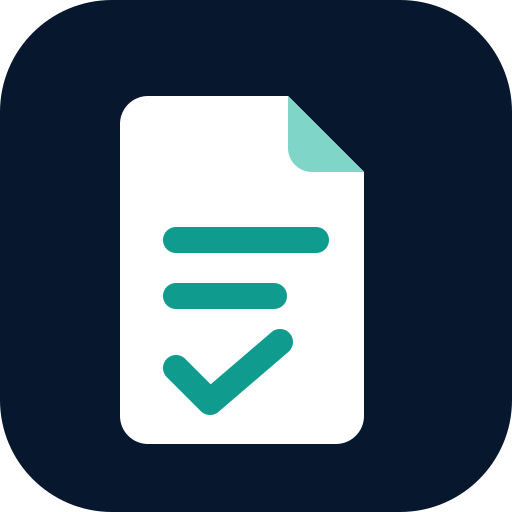
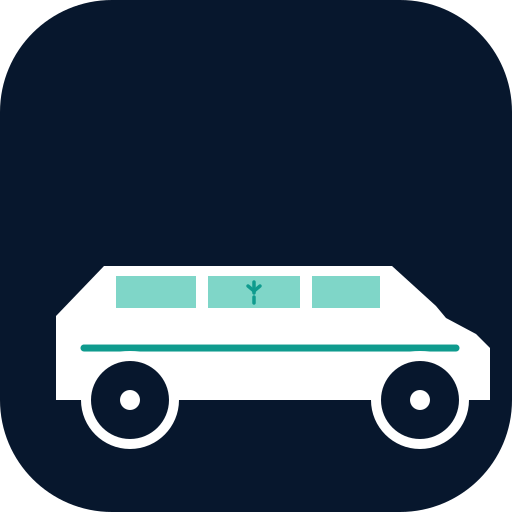
Ny limousin+glas-logotyp och branschanpassade flik-ikoner (stenskott, glasdokument, verktyg)

diff --git a/tools/build-logo.js b/tools/build-logo.js
@@ -51,13 +51,21 @@ const svg = `<svg xmlns="http://www.w3.org/2000/svg" viewBox="0 0 1000 240" role
   <!-- Flat fills only: portal_sanitize_svg strips defs/gradients on view. -->
   <g transform="translate(0 0) scale(0.46875)">
     <rect width="512" height="512" rx="112" fill="#07172d"/>
-    <path d="M148 96h140l76 76v244a28 28 0 0 1-28 28H148a28 28 0 0 1-28-28V124a28 28 0 0 1 28-28z" fill="#ffffff"/>
-    <path d="M288 96l76 76h-52a24 24 0 0 1-24-24z" fill="#7fd6c8"/>
-    <g stroke="#0f9b8e" stroke-width="26" stroke-linecap="round" stroke-linejoin="round" fill="none">
-      <path d="M176 240h140"/>
-      <path d="M176 296h98"/>
-      <path d="M176 368l34 34 70-60"/>
+    <path d="M56 400V316l48-50h288l44 40 10 12 30 16 14 14v52z" fill="#ffffff"/>
+    <rect x="116" y="276" width="80" height="32" fill="#7fd6c8"/>
+    <rect x="208" y="276" width="92" height="32" fill="#7fd6c8"/>
+    <rect x="312" y="276" width="68" height="32" fill="#7fd6c8"/>
+    <g stroke="#0f9b8e" stroke-width="3.5" stroke-linecap="round">
+      <path d="M254 282v11"/>
+      <path d="M248 286l6 5"/>
+      <path d="M260 286l-6 5"/>
+      <path d="M254 297v6"/>
     </g>
+    <path d="M84 348h372" stroke="#0f9b8e" stroke-width="7" stroke-linecap="round"/>
+    <circle cx="130" cy="400" r="44" fill="#07172d" stroke="#ffffff" stroke-width="10"/>
+    <circle cx="420" cy="400" r="44" fill="#07172d" stroke="#ffffff" stroke-width="10"/>
+    <circle cx="130" cy="400" r="10" fill="#ffffff"/>
+    <circle cx="420" cy="400" r="10" fill="#ffffff"/>
   </g>
   <path d="${pathData}" fill="#0b2239"/>
   <rect x="${x}" y="176" width="${advance}" height="8" rx="4" fill="#0f9b8e"/>

diff --git a/index.php b/index.php
@@ -3850,11 +3850,11 @@ $languageLink = static function (string $language): string {
 ?>
 <?php
         $tabIcons = [
-            'protocol' => '<svg class="tab-icon" viewBox="0 0 24 24" aria-hidden="true" focusable="false"><path d="M7 3.5h7l4 4v13H7z"/><path d="M14 3.5v4h4M10 12h5M10 16h5"/></svg>',
+            'protocol' => '<svg class="tab-icon" viewBox="0 0 24 24" aria-hidden="true" focusable="false"><path d="M14.7 6.3a1 1 0 0 0 0 1.4l1.6 1.6a1 1 0 0 0 1.4 0l3.77-3.77a6 6 0 0 1-7.94 7.94l-6.91 6.91a2.12 2.12 0 0 1-3-3l6.91-6.91a6 6 0 0 1 7.94-7.94l-3.76 3.76z"/></svg>',
             'search' => '<svg class="tab-icon" viewBox="0 0 24 24" aria-hidden="true" focusable="false"><circle cx="10.8" cy="10.8" r="6.8"/><path d="m16 16 4.2 4.2"/></svg>',
             'invoice' => '<svg class="tab-icon" viewBox="0 0 24 24" aria-hidden="true" focusable="false"><path d="M6 3.5h12v17l-3-2-3 2-3-2-3 2z"/><path d="M9 8h6M9 12h6M9 16h3"/></svg>',
-            'skadeblankett' => '<svg class="tab-icon" viewBox="0 0 24 24" aria-hidden="true" focusable="false"><path d="M12 3 5 6v5c0 4.6 2.8 7.7 7 10 4.2-2.3 7-5.4 7-10V6z"/><path d="M12 8v4M12 15h.01"/></svg>',
-            'files' => '<svg class="tab-icon" viewBox="0 0 24 24" aria-hidden="true" focusable="false"><path d="M3.5 7.5h6l2 2h9v9h-17z"/><path d="M3.5 7.5v-2h6l2 2"/></svg>',
+            'skadeblankett' => '<svg class="tab-icon" viewBox="0 0 24 24" aria-hidden="true" focusable="false"><rect x="4.5" y="4" width="15" height="16" rx="2.5"/><path d="M12 8.5v4.5M9.8 10.3l2.6 2.2M14.2 10.3l-2.6 2.2M12 14.5v1.5"/></svg>',
+            'files' => '<svg class="tab-icon" viewBox="0 0 24 24" aria-hidden="true" focusable="false"><path d="M5.5 4.5A1.5 1.5 0 0 1 7 3h6.5L18.5 8v11.5A1.5 1.5 0 0 1 17 21H7a1.5 1.5 0 0 1-1.5-1.5z"/><path d="M13.5 3v5h5"/><path d="M8.5 15.5l6-6M12 17.5l4.5-4.5"/></svg>',
             'archive' => '<svg class="tab-icon" viewBox="0 0 24 24" aria-hidden="true" focusable="false"><circle cx="12" cy="12" r="8.5"/><path d="M12 7v5l3 2"/></svg>',
             'customers' => '<svg class="tab-icon" viewBox="0 0 24 24" aria-hidden="true" focusable="false"><circle cx="9" cy="8" r="3"/><path d="M3.5 20v-1.5a5.5 5.5 0 0 1 11 0V20M16 5.5a3 3 0 0 1 0 5.8M17 15.5a5 5 0 0 1 3.5 4.5"/></svg>',
             'calendar' => '<svg class="tab-icon" viewBox="0 0 24 24" aria-hidden="true" focusable="false"><rect x="3.5" y="5" width="17" height="15.5" rx="2"/><path d="M7.5 3v4M16.5 3v4M3.5 9h17M8 13h2M14 13h2M8 17h2"/></svg>',

diff --git a/tests/php/svg_logo_sanitizer_regression.php b/tests/php/svg_logo_sanitizer_regression.php
@@ -22,7 +22,8 @@ $icon = (string) file_get_contents(__DIR__ . '/../../assets/tadega-icon.svg');
 $safeIcon = portal_sanitize_svg($icon);
 $assert(is_string($safeIcon), 'App icon passes the sanitizer');
 $assert(str_contains($safeIcon, 'rx="112"'), 'Badge corner radius survives sanitizing');
-$assert(str_contains($safeIcon, 'M176 368'), 'Check-mark stroke survives sanitizing');
+$assert(str_contains($safeIcon, 'M56 400'), 'Limousine body path survives sanitizing');
+$assert(str_contains($safeIcon, 'cx="420"'), 'Wheel circle survives sanitizing');
 $assert(str_contains($safeIcon, 'stroke="#0f9b8e"'), 'Teal stroke colour survives sanitizing');
 
 $logo = (string) file_get_contents(__DIR__ . '/../../assets/tadega-logo.svg');

diff --git a/README-DEPLOY.md b/README-DEPLOY.md
@@ -25,6 +25,7 @@ Det här är en uppdaterad **arbetskopia** av portalen. Den har inte publicerats
 - SVG-logotypkontroll, PDF-/bilduppladdningsvalidering, atomiska JSON-skrivningar. Portalens aktiva JSON-data ligger i den skyddade undermappen `storage/`, inklusive faktura- och protokollkonton, hashade inloggningsförsök, sparade protokoll och fakturaunderlag, autosparade utkast samt integritetsbegränsad e-poststatus utan kund-/mottagardata. Sessionsfiler lagras i `storage/sessions/`, tillfälliga PDF-bilder i `storage/tmp/`, säkerhetskopior i `storage/backups/`, auditloggar i `logs/`, PDF-utdata i `pdf/` och logotypuppladdningar i `svg/`. `storage/.htaccess` nekar direktåtkomst. Webbhotellets PHP-uppladdningstemp, e-postkö och serverfel-loggar hanteras av Websupport och kan inte garanteras ligga i appmappen; appen flyttar accepterade filer till egna undermappar och sparar inte formulärdata i dessa temporära hostfiler.
 - PDF-arkivet har underfliken **Övriga filer** för filer som fylls på manuellt via uppladdning i appen: filerna ligger i en egen undermapp `pdf/ovrigt/` precis som övriga underflikar har egna mappar (oklassificerade filer utanför mappen listas fortfarande bara i Alla filer), inloggade användare kan ladda upp medan en scoped PWA-spärr visar *"Endast inloggade användare i portalen kan ladda upp filer till PDF-arkivet"*, hjälptexten i underfliken förklarar att filer fylls på manuellt av inloggade användare (PDF/JPG/PNG, max 12 MB), och radering kräver central admin precis som för övriga arkivunderflikar.
 - Dokumentportalens nya Tadega-identitet använder `assets/tadega-icon.svg` i appens sidhuvud och `assets/tadega-logo.svg` som horisontell, tryckanpassad SVG-master. Ordmärket är vektoriserat som banor utan fontberoende och genereras av `node tools/build-logo.js` (Inter ExtraBold konverteras till konturer), och båda SVG-mästrarna använder endast platta färger eftersom filrutten sanerar bort gradienter och `defs` före visning. PNG-derivaten byggs från samma symbol med `node tools/build-icons.js` (`npm run build:icons`): PWA 192/512 px, Apple-touch, `portal-icon.png`, `tadega-logo-fpdf.png` (480 px för utskrift) och `favicon.ico`. Fakturaunderlagets och serviceprotokollets webbutskrift använder SVG-mastern; FPDF-PDF:er använder den högupplösda PNG-renderingen eftersom FPDF inte bäddar in SVG. Assets-mappen nekar direktåtkomst och den publika filrutten sanerar och visar SVG inline; FPDF-derivatan `tadega-logo-fpdf.png` exponeras inte via filrutten, medan den redigerbara logotyp-SVG:n kan visas och laddas ner från Inställningar → Varumärke och logotyper för tryck. Ikonen ligger bakom portalens kontrollerade rutt; `portal-icon.png`, PWA-ikonerna i 192/512 px, Apple-touch-ikonen och favicon renderas från samma symbol och används i manifest, hemskärmsgenvägar och Windows tile-metadata. Service worker-versionerna är bumpade för att installerade PWA:er ska hämta den nya ikonen; den befintliga avgränsade shell-cachen behåller sin allowlist och rensar inte annan Cache Storage eller användardata.
+  - Märket följer verksamheten (limousiner + glas, enligt bilrutan.se, laxaglas.se och limoeurope.com): sedan 0.0.13 är app-ikonen och logotypmärket **en limousin i sidoprofil med glasfönster, kromlist och stenskottsspricka** i mittfönstret, byggt med `node tools/build-logo.js` + `node tools/build-icons.js`. Flik-ikonerna är branschanpassade: Skadeblankett = glasruta med stenskott, PDF-arkiv = glasdokument med glans, Serviceprotokoll = verktyg; övriga ikoner är oförändrade universella.
 - Avancerad driftlogg skrivs till undermappen `logs/requests.jsonl` i appen: UTC-tid, slumpmässigt request-ID, metod, tillåtet område/åtgärdsnamn, HTTP-status, svarstid, minnesåtgång och i vissa uttryckligen instrumenterade fall resultat för central inloggning och releasekontroll/-installation. `not_recorded` betyder att utfallet inte har instrumenterats, inte att åtgärden lyckats. Loggen är ett integritetsbegränsat driftstöd, inte en fullständig revisionslogg; statiska filer och PHP-fel före initiering ingår inte. URL:er, frågeparametrar, formulärdata, kunduppgifter, PIN, sessionsvärden och IP-adresser sparas inte. Vid 1 MiB roteras den med högst tre äldre filer; poster äldre än 30 dagar rensas ungefär dagligen vid en portalbegäran. Gränsen kan göra att poster tas bort tidigare. Loggning misslyckas säkert om `logs/` eller dess nekande `.htaccess` saknas eller innehåller länkar; skrivfel rapporteras med ett generiskt meddelande till PHP:s serverlogg. Ladda ner loggar säkert via SFTP, aldrig via webb-URL. Skydda även `logs/requests.jsonl.1`–`.3`, lås och temporärfiler i webbserverkonfigurationen: `.htaccess` fungerar bara där Apache tillämpar den, andra servrar kräver ett motsvarande nekande skydd. Kontrollera faktiskt skydd och skrivbehörighet i staging; loggarna är Git-ignorerade och uppdateraren skriver inte över dem.
 - Separat audit- och felsökningslogg i `logs/`. `audit.jsonl` är fortsatt en separat logg med tidsstämpel i UTC, fast tillåtet händelsenamn och slumpmässigt request-ID. `diagnostics.jsonl` tar endast emot PHP-fel/tekniska diagnoser samt JavaScriptfel och ohanterade Promise-avslag; normala sidvisningar och användaråtgärder samlas inte in där. Diagnostikvyn ligger som en admin-only underflik under Fakturaunderlag och visar högst de 200 senaste posterna. En felpost kan innehålla UTC-tid, feltyp, fast PHP-nivå, filnamn utan sökväg, rad/kolumn, portalområde, en allowlistad felklass, ett slumpmässigt request-ID samt HMAC-pseudonymiserat konto-ID och roll när en autentiserad konto-session finns. Nyckeln för pseudonymiseringen skapas automatiskt i privata `storage/diagnostic_actor.key`; det råa konto-ID:t sparas inte. Råa felmeddelanden, stacktraces, formulär-/kunduppgifter, PIN/lösenord, CSRF-/sessions-token, IP-adresser, URL:er och fil-/PDF-innehåll sparas inte. Klientinsamlingen skickar bara allowlistad feltyp/-klass, filbasnamn och rad/kolumn, är CSRF-skyddad, dedupliceras per sida och begränsas server-side till 20 poster per session/minut. Diagnostikposter äldre än 30 dagar rensas vid loggskrivning och adminvyläsning samt minst dagligen vid en vanlig portalbegäran. Rensningen är request-driven eftersom portalen inte kör någon bakgrundsdaemon; om inga anrop kommer görs rensningen vid nästa PHP-anrop. Loggar roteras även vid 1 MiB, filrättigheter sätts till 0700/0600 där webbhotellet tillåter det och `logs/.htaccess` nekar direktåtkomst. Detta är best-effort felsökningsstöd, inte en garanti för att varje fel kan loggas eller att felsökning blir helt säker. Roterade arkivfiler (`logs/*.jsonl.1`–`.3`) rensas dessutom efter sju dagar: `TadegaPrivacyLogger::cleanupArchivedLogs(7)` körs vid portalbegäran, spärras av en dygnsmarkör och rör aldrig de levande loggfilerna; tomma arkiv som lämnats av postgallringen tas bort direkt. En gång per dygn roteras dessutom gårdagens skrivning i `audit.jsonl`, `diagnostics.jsonl` och `requests.jsonl` till arkivkedjan (`.1`→`.2`→`.3`) via `TadegaPrivacyLogger::archiveYesterdayLogs()`. Den kompletta **aktiva felloggen** ligger separat i `storage/active_errors.json`: varje diagnostikpost räknas upp där (`upsertActiveError`), listan överlever all arkivering, och när admin markerar ett fel som åtgärdat i Fakturaunderlag → Felsökning tas det bort ur både den listan och råloggen (`resolveActiveErrors`).
 - Serviceprotokoll och fakturaunderlag har ändringshistorik på respektive sparad post: skapa/ändra, UTC-tid, användar-ID, användarnamn och visningsnamn. Händelser visas i fliken Historik. Historikposterna innehåller inte kund-, fordons-, referens- eller beskrivningsfält; de vanliga dokumentposterna har förstås fortfarande sina verksamhetsuppgifter. Äldre poster får ingen påhittad skapare; historik börjar när de sparas efter att funktionen införts.
